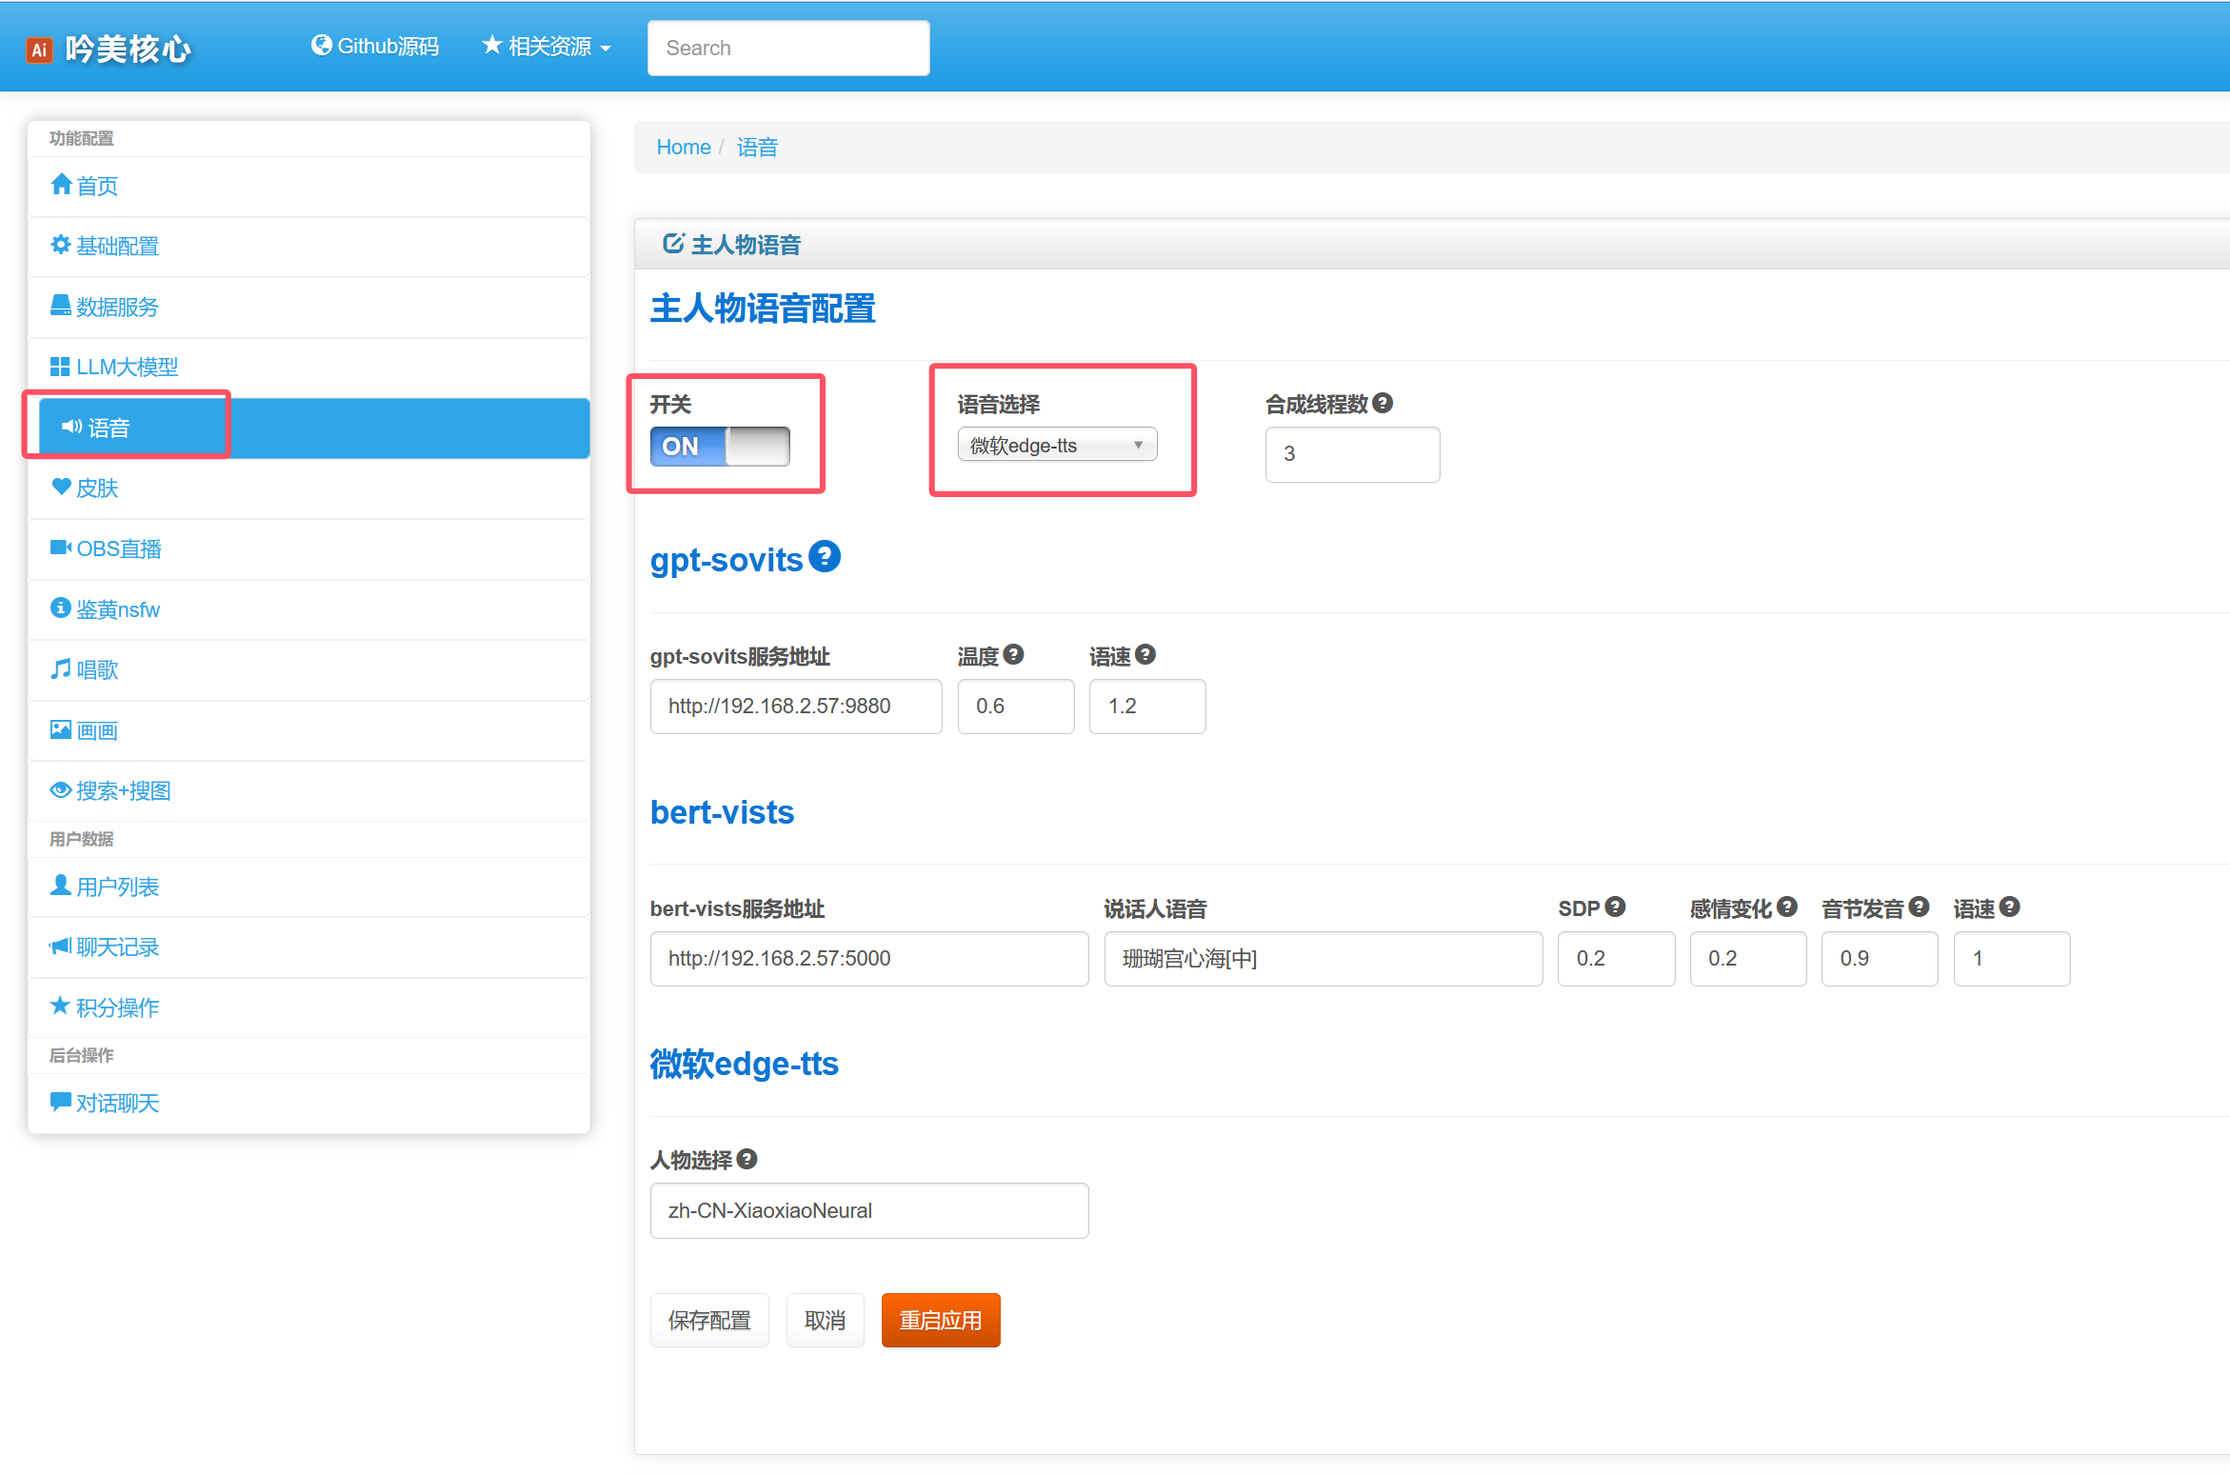
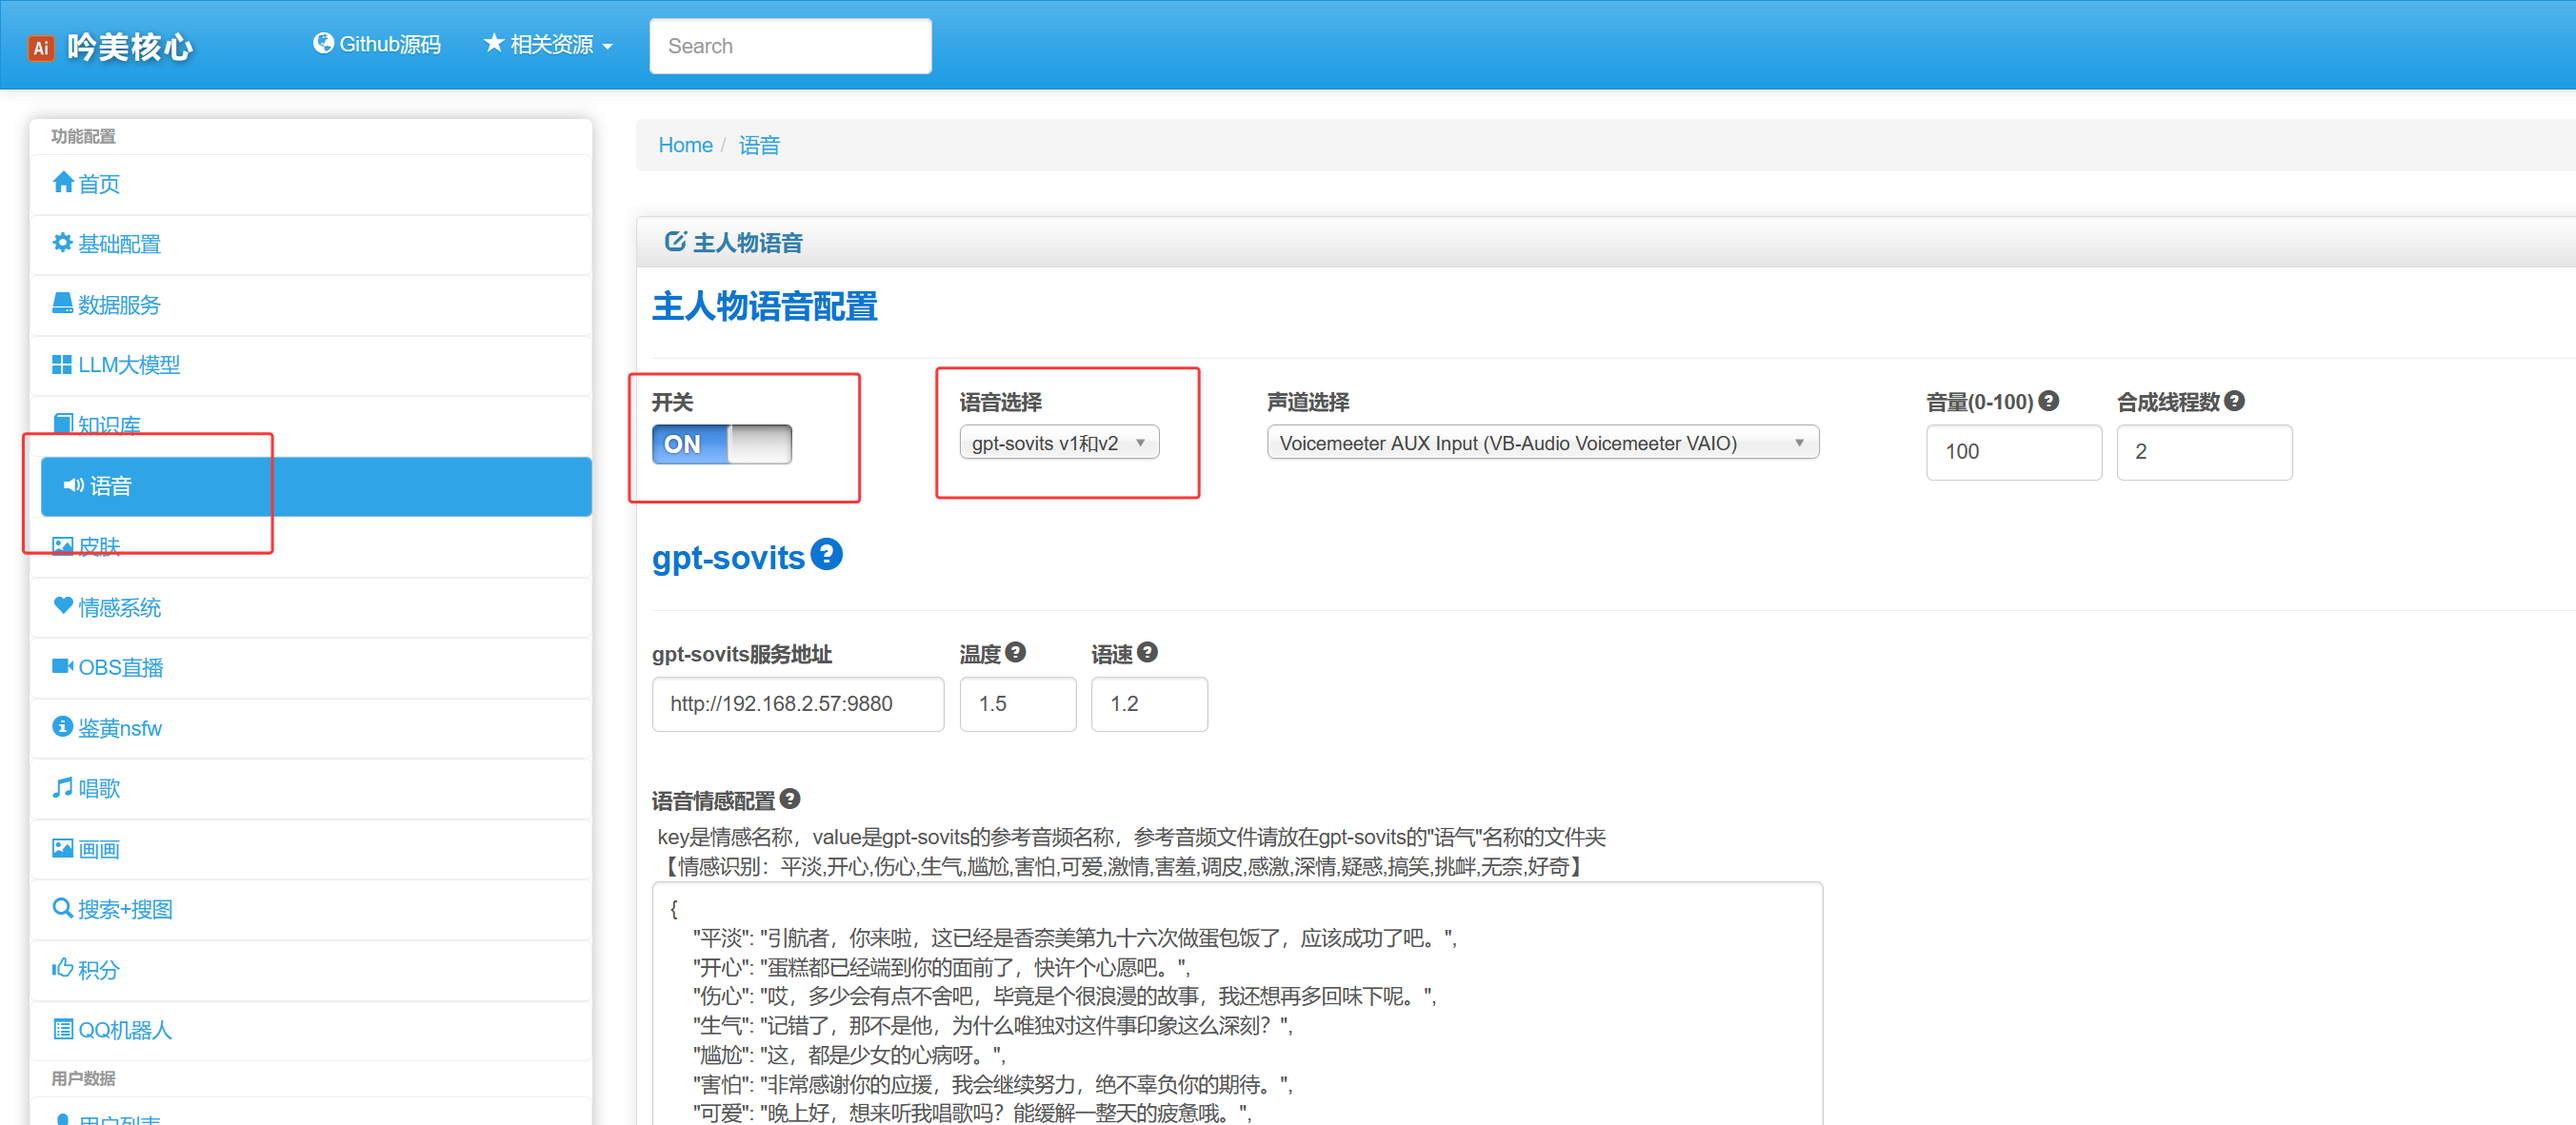
第一版

diff --git a/yinmei-core.md b/yinmei-core.md
@@ -233,6 +233,7 @@ fastgpt地址配置：
 ![30.png](images/吟美核心/30.png)  
 
 ### 2、gpt-sovits1和2配置  
+#### 2.1、下载软件
 - **如果你想语音更加生动，可以选择gpt-sovits的产品**  
 - <font color="red" style="font-weight:bold">整合包我已经放在网盘，GPT-SoVITS-v2.zip是GPT-SoVITS的2.0版本：</font>  
 **吟美整合包下载地址：**  
@@ -244,8 +245,10 @@ fastgpt地址配置：
 **夸克：**   
 夸克群1：1231405830   
 夸克群2：428937868   
+<font color="red">PS: 请在"yinmei-all"下载gpt-sovits的压缩包，解压即可使用</font>  
 ![103.png](images/吟美核心/103.png)  
 
+#### 2.2、语音配置
 **配置语音：**  
 ![31.png](images/吟美核心/31.png)  
 
@@ -255,9 +258,22 @@ fastgpt地址配置：
 打开GPT-SoVITS-v2，双击api.bat就可以启动  
 ![33.png](images/吟美核心/33.png)  
 
-启动成功界面：  
+#### 2.3、启动软件
+**配置IP：**  
+打开记事本编辑api.bat文件  
+如果你语音是部署在局域网上其他机器，请配置那台机器的IP  
+如果你的语音和吟美核心是同一台机器，则是默认配置127.0.0.1  
+端口是默认9880，如果你有端口冲突，请配置其他端口  
+![105.png](images/吟美核心/105.png)  
+
+**双击api.bat启动软件：**  
 ![34.png](images/吟美核心/34.png)  
 
+**启动成功界面：**  
+启动成功会显示你当前配置好的ip地址  
+![104.png](images/吟美核心/104.png)  
+
+#### 2.4、音频模型选择
 **GPT-SOVITS2的音频模型下载：**  
 https://pan.baidu.com/s/14WUDbWnBn7GPQYVREkWMug?pwd=1145  
 **<font color="red">特别鸣谢：</font>**  
@@ -282,17 +298,31 @@ runtime\python.exe api.py -s "./SoVITS_weights_v2/虎克_e10_s320.pth" -g "./GPT
 pause
 ```
 
-然后配置语音服务地址：  
-这里的地址是你刚才启动GPT-SOVITS服务的地址，如果你是在另外一台机器启动的，请配置那台机器的局域网IP地址和端口，而且请保证网络是通的  
-![37.png](images/吟美核心/37.png)  
-
+#### 2.5、助手音频配置
 这里触发助手说话的音频，你可以和上面配置的一样，也可以在多开一个不同发音的gpt-sovits服务出来  
 助手的语音：然后我们在唱歌回复、绘画回复、跳舞回复、进入房间欢迎词、积分播报等一些说话上，引用这个助手语音  
+助手需要启动多一个gpt-sovits服务，音频端口和主人物端口分开即可，然后服务IP和端口配置这个新音频地址  
 ![38.png](images/吟美核心/38.png)  
 
 ### 3、语音声道
 语音新增声道选择，默认输出到 扬声器，这里会被【桌宠的live2D_audio_device参数】音频捕获或者【VTS设置口型】音频捕获，从而实现口型匹配  
 ![66.png](images/吟美核心/66.png)  
+
+### 4、情感语气
+#### 4.1、语气配置方案  
+配置参考音频，一个情感名称对应一个参考音频文件名  
+![106.png](images/吟美核心/106.png)  
+> 例如： "开心": "蛋糕都已经端到你的面前了，快许个心愿吧。"  
+
+遇到"开心"情感，则使用参考音频"蛋糕都已经端到你的面前了，快许个心愿吧。.WAV"  
+<br>
+
+#### 4.2、参考音频配置
+需要在gpt-sovits的"语气"文件夹加入音频文件"蛋糕都已经端到你的面前了，快许个心愿吧。.WAV"  
+需要参考音频，请在这里下载：[下载](https://mall.bilibili.com/neul-next/detailuniversal/detail.html?isMerchant=1&page=detailuniversal_detail&saleType=10&itemsId=12444567&loadingShow=1&noTitleBar=1&msource=merchant_share)
+![107.png](images/吟美核心/107.png)  
+![108.png](images/吟美核心/108.png)  
+
 
 ## 三、直播配置  
 ### 1、弹幕
